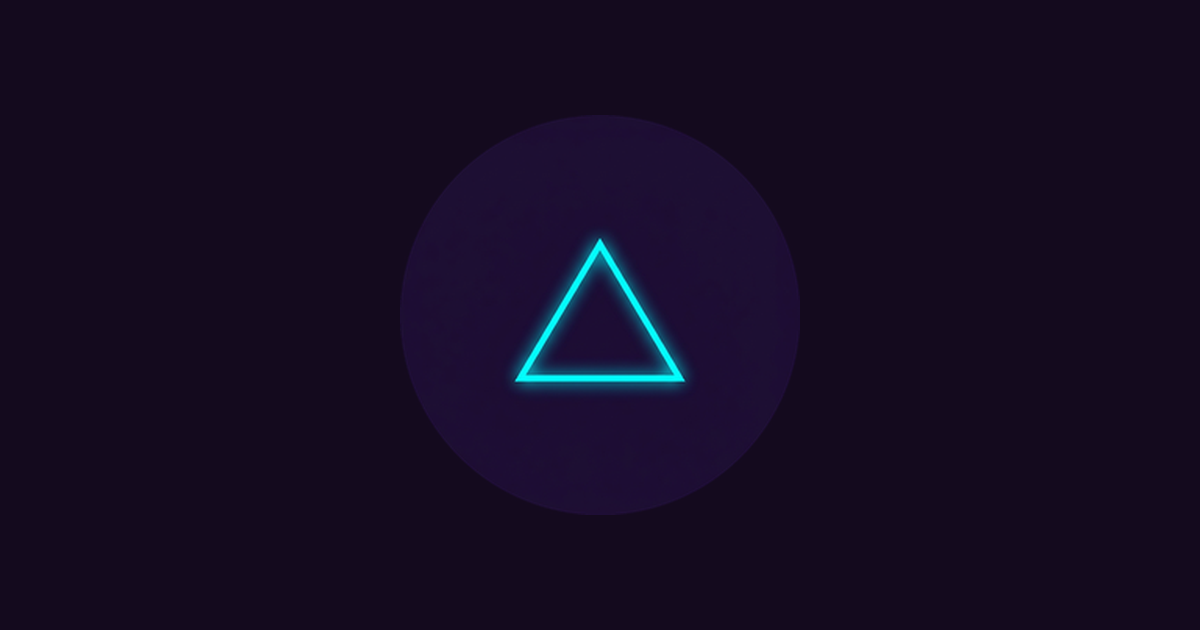
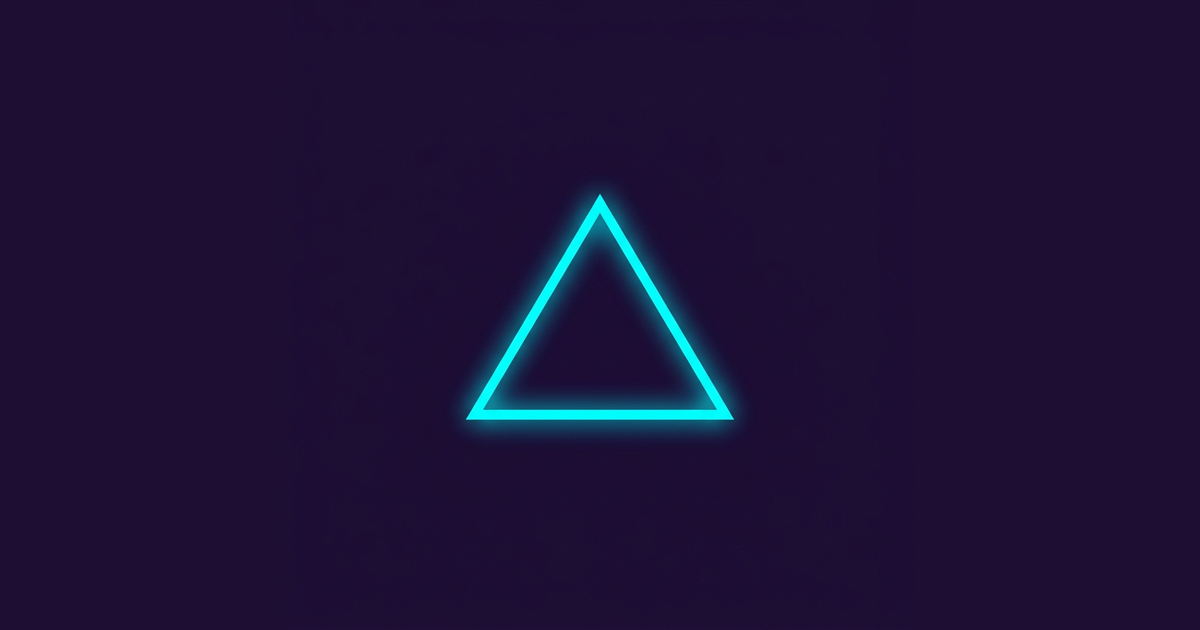
style: updated og-image to have a seamless background

Changed region(s): [[0.37, 0.3016, 0.6167, 0.6937], [0.5242, 0.9952, 0.555, 1.0], [0.3392, 0.9952, 0.37, 1.0]]

diff --git a/create_og_image.py b/create_og_image.py
@@ -1,19 +1,23 @@
 from PIL import Image
 
-# Create a 1200x630 dark rectangular background (Twitter/WhatsApp optimal size)
-bg = Image.new('RGB', (1200, 630), color=(20, 10, 30)) # Dark purple/void background
-logo = Image.open('logo.png').convert("RGBA")
+# Path to the original uncropped square image generated by the AI
+orig_path = r"C:\Users\m.h\.gemini\antigravity-ide\brain\ca36d41d-ebaf-40f2-9e63-d1acf39703e4\vibe_shooter_simple_logo_1786496032637.png"
+img = Image.open(orig_path).convert("RGBA")
 
-# Resize the circular logo to be large and prominent
-new_size = 400
-logo = logo.resize((new_size, new_size), Image.Resampling.LANCZOS)
+# Get the background color from the top-left pixel to ensure a seamless match
+bg_color = img.getpixel((0, 0))
 
-# Calculate center position
-offset = ((1200 - new_size) // 2, (630 - new_size) // 2)
+# Create a 1200x630 background with that exact color
+bg = Image.new('RGBA', (1200, 630), color=bg_color)
 
-# Paste the logo with transparency mask onto the background
-bg.paste(logo, offset, mask=logo)
+# Resize the original image so it fits perfectly in the height
+new_size = 630
+img_resized = img.resize((new_size, new_size), Image.Resampling.LANCZOS)
 
-# Save as og-image.png
-bg.save('og-image.png', optimize=True, quality=90)
-print("Saved og-image.png")
+# Paste the resized original image in the center
+offset = ((1200 - new_size) // 2, 0)
+bg.paste(img_resized, offset)
+
+# Save the final og-image
+bg.convert('RGB').save('og-image.png', optimize=True, quality=90)
+print("Saved og-image.png with matching background")
